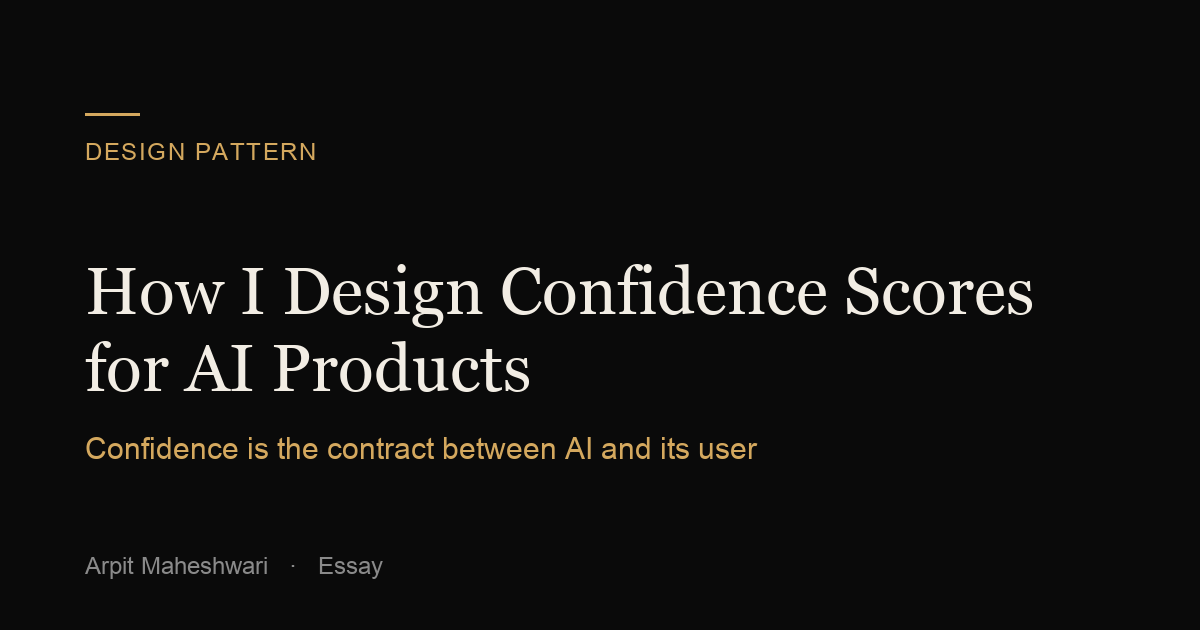
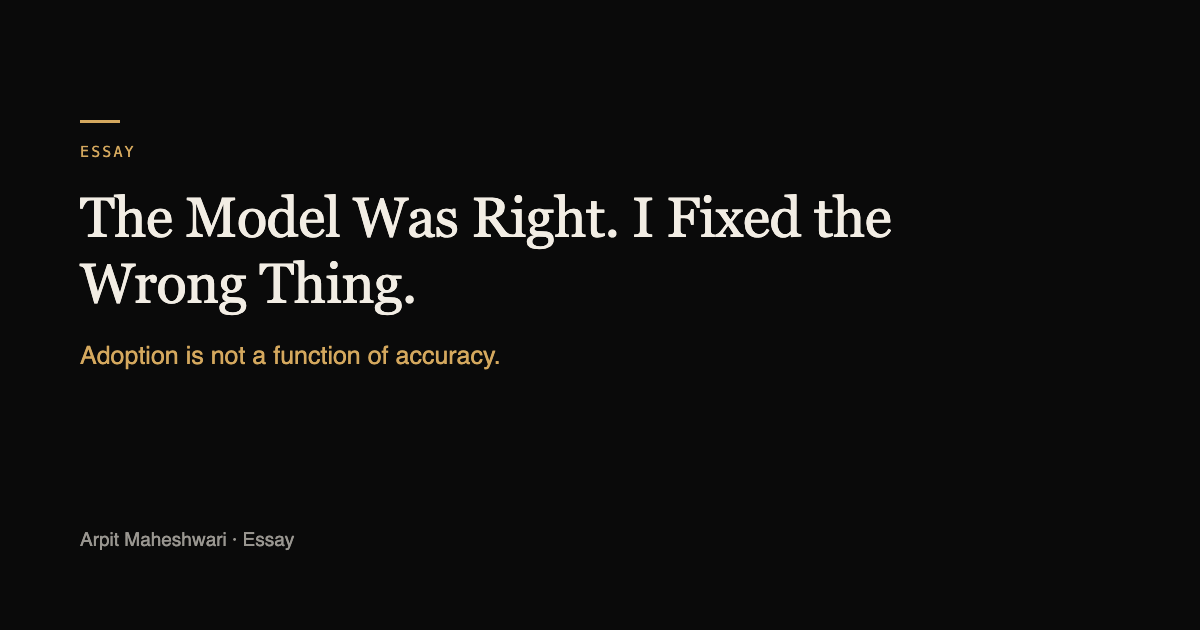
[canon] the AdTech confidence-score claim, out of a fourth surface — and a gate that can see prose
The 2026-08-05 correction (no confidence scores at this client, ever) was applied to
the cases and documents, then to patterns/ on 2026-08-07 with the lesson written down:
"a canon correction must sweep patterns/ too, it is a third surface family". There was a
fourth. writing/ was never swept, and patterns/confidence-scores.html's own lead was
missed by the sweep that fixed its footer.

Live on the domain until today:
  * writing/confidence-scoring.html narrated the client's story as a confidence-score
    story end to end — "below a certain confidence we stopped showing a number at all" —
    with every figure in it (10,000 campaigns, 60% more profitable, 47%, 42%, 85%)
    unattested in canon. Rewritten to the attested story: the model was right and
    ignored, two weeks lost to the wrong suspect, a ranked list of billboards became a
    full campaign plan with KPIs attached and one-click argue-back, overrides logged and
    fed to the next week. Numbers now only 2 wks -> 3 hrs, GBP 69,000 media-value uplift,
    <5% -> 100% of UK bookings (public record). Retitled "The Model Was Right. I Fixed
    the Wrong Thing."
  * writing/index.html labelled that essay "Confidence Scores · AdTech".
  * patterns/confidence-scores.html opened on "traders at the UK's largest out-of-home
    advertiser ... 87% is not an instruction" and listed the AdTech case as where the
    pattern was seen in production. Lead regrounded in FinTech, where scores are
[…]

diff --git a/writing/confidence-scoring.html b/writing/confidence-scoring.html
@@ -3,10 +3,10 @@
 <head>
   <meta charset="UTF-8">
   <meta name="viewport" content="width=device-width, initial-scale=1.0">
-  <title>Confidence Score Patterns — Arpit Maheshwari</title>
-  <meta name="description" content="Why confidence is the contract between AI and its user. How to design confidence scoring that survives expert skepticism.">
-  <meta property="og:title" content="How I Design Confidence Scores for AI Products">
-  <meta property="og:description" content="The bottleneck in AI adoption isn't the model—it's user confidence. How to design confidence scores that make non-technical users trust algorithmic recommendations.">
+  <title>The Model Was Right. I Fixed the Wrong Thing. — Arpit Maheshwari</title>
+  <meta name="description" content="A recommendation engine beat the traders it was built for and went unused. The two weeks I lost to the wrong suspect, and the handover change that moved adoption.">
+  <meta property="og:title" content="The Model Was Right. I Fixed the Wrong Thing.">
+  <meta property="og:description" content="Adoption is not a function of accuracy">
   <meta property="og:url" content="https://arpitmaheshwari.com/writing/confidence-scoring.html">
   <meta property="og:type" content="article">
   <meta property="article:published_time" content="2026-05-09">
@@ -23,15 +23,15 @@
   {
     "@context": "https://schema.org",
     "@type": "Article",
-    "headline": "How I Design Confidence Scores for AI Products",
-    "description": "The bottleneck in AI adoption isn't the model—it's user confidence.",
+    "headline": "The Model Was Right. I Fixed the Wrong Thing.",
+    "description": "Adoption is not a function of accuracy — it is whether a professional can put their name on the output.",
     "author": {
       "@type": "Person",
       "name": "Arpit Maheshwari",
       "url": "https://arpitmaheshwari.com"
     },
     "datePublished": "2026-05-09",
-    "dateModified": "2026-05-09"
+    "dateModified": "2026-08-30"
   }
   </script>
 <meta property="og:image" content="https://arpitmaheshwari.com/assets/og-images/confidence-scoring-og.png">
@@ -53,37 +53,41 @@
 
 <div class="page-head">
   <div class="xi-writing-confidence-scoring-005">
-    <h1 class="xi-writing-confidence-scoring-006">How I Design Confidence Scores for AI Products</h1>
-    <p class="xi-writing-confidence-scoring-007">Design Pattern · May 2026 · 8 min read</p>
-    <p class="hand hand-note" aria-hidden="true">the 2018 shrug that started all this</p>
+    <h1 class="xi-writing-confidence-scoring-006">The Model Was Right. I Fixed the Wrong Thing.</h1>
+    <p class="xi-writing-confidence-scoring-007">Essay · May 2026 · 8 min read</p>
+    <p class="hand hand-note" aria-hidden="true">the two weeks I&rsquo;d like back</p>
   </div>
 </div>
 
 <main id="main" class="section page-bg"><div class="xi-writing-confidence-scoring-005">
 
-  <p class="lead xi-writing-confidence-scoring-010">In 2018 I watched a media buyer look at a recommendation that was, statistically, better than her own judgment — and override it anyway. That half-second of doubt is the whole problem. It’s also the only thing I was hired to design.</p>
+  <p class="lead xi-writing-confidence-scoring-010">In 2019 a recommendation engine I was working on beat the traders it was built for — visibly, on their own numbers. Adoption sat near zero. I spent the next two weeks making it smarter. That was the mistake.</p>
 
-  <h2 class="section-title xi-writing-confidence-scoring-011">The number that said nothing</h2>
-  <p class="u-body xi-writing-confidence-scoring-012">The platform had built a recommendation engine, and on paper it was very good: across more than 10,000 campaigns it was running 60% more profitable than buyer intuition. The buyers rejected it 47% of the time anyway. I sat next to one of them for an afternoon to understand why. She wasn’t fighting the math. She’d glance at the recommendation, see a bare number next to a “buy” button, and quietly do what she’d already decided to do.</p>
-  <p class="u-body xi-writing-confidence-scoring-012">That afternoon reframed the whole brief for me. Media buyers are trained skeptics — they’ll take data over instinct, but only when they can see which way the data is pointing and why. A system that says “buy this” and offers nothing else isn’t a tool to them; it’s a threat to the judgment they’re paid for. So they reach for the thing that feels safer: their own call. The model wasn’t being out-argued. It was being ignored.</p>
-
-  <p class="u-body xi-writing-confidence-scoring-012">The fix everyone reached for first was a better number — recalibrate, add a decimal, make it look more authoritative. That’s the trap. The buyer didn’t distrust the score because it was imprecise. She distrusted it because it arrived as a verdict with no way in. What she needed wasn’t a more confident number; it was what I&rsquo;d come to think of as a <a class="link-gold" href="../resources/intelligent-systems-glossary.html#confidence-layer">confidence layer</a> — a number she could interrogate and then choose to act on. The moment I started treating the score as the start of a conversation instead of the end of one, rejection started to fall.</p>
+  <h2 class="section-title xi-writing-confidence-scoring-011">I got the diagnosis wrong first</h2>
+  <p class="u-body xi-writing-confidence-scoring-012">The client was the UK&rsquo;s largest out-of-home advertising company, and the engine did something the desk genuinely could not: it read demand, supply and price across the whole market and proposed where a campaign should run. It outperformed the traders&rsquo; own picks. They ignored it anyway.</p>
+  <p class="u-body xi-writing-confidence-scoring-012">My first instinct was the engineer&rsquo;s instinct, and it was wrong. If a correct thing is not being used, make it more correct. Two weeks went into sharpening a model that was already sharp. Nothing moved, because accuracy was never the problem. I keep that miss on the case page too, because it is the most useful part of the story: the wrong suspect is expensive, and it looks exactly like diligence while you are chasing it.</p>
+  <p class="u-body xi-writing-confidence-scoring-012">The traders were not being stubborn. They were being rational. A bare recommendation asks for faith, and traders deal in collateral &mdash; their name goes on the booking, and &ldquo;the system said so&rdquo; is not a defence you can carry into a client review. The model was not being out-argued. It was being ignored, which is a different failure and has a different fix.</p>
 
   <div class="xi-writing-confidence-scoring-014">
-    <p class="xi-writing-confidence-scoring-015"><strong>A confidence score is a contract.</strong> The model commits to a number. The user commits to acting on it. My job is to make both halves of that bargain visible — so the person can see what they’re agreeing to before they agree.</p>
+    <p class="xi-writing-confidence-scoring-015"><strong>The model did not need to be more right.</strong> It needed to hand over something a professional could put their name on.</p>
   </div>
 
   <h2 class="section-title xi-writing-confidence-scoring-011">What I actually changed</h2>
-  <p class="u-body xi-writing-confidence-scoring-012">The thing I’m proudest of on that project is the smallest: below a certain confidence, we stopped showing a number at all. A 42% score is worse than useless — it’s an invitation to freeze. Replacing it with a plain “not confident enough to recommend — flag for review” let the buyer move on instead of staring at a figure she’d never act on. We spent the rest of the engagement on the same instinct, again and again: don’t dress up uncertainty, name it, and always leave a door open for the expert to walk through and disagree.</p>
-  <p class="u-body xi-writing-confidence-scoring-012">That’s the counter-intuitive part. The honest interface — the one that admits where the model is shaky — earned more trust than the optimistic one ever did. An “85% confident!” banner buys you exactly one mistake before a skeptic writes the whole system off. A score that already told you where it might be wrong survives the day it actually is.</p>
+  <p class="u-body xi-writing-confidence-scoring-012">Nothing in the model. What changed was what it handed over.</p>
+  <p class="u-body xi-writing-confidence-scoring-012">The engine&rsquo;s raw output was a ranked list of billboards. A list is an instruction: take it or leave it, and there is no third move. So the screen stopped serving a list and started serving a full campaign plan &mdash; the sites, the channel split, the creative rotation, and the KPIs the plan was committing to, printed on the plan itself. Every component customisable in one click.</p>
+  <p class="u-body xi-writing-confidence-scoring-012">That last part is the whole thing. The trader could argue back &mdash; pull a cluster, shift budget between channels, reject a panel on pricing &mdash; and every one of those edits was logged and fed into the next week&rsquo;s recommendations. Disagreement stopped being friction and became fuel. A trader who overrode Friday&rsquo;s plan watched the following week&rsquo;s arrive already reflecting the override, which is a very different feeling from being audited by a machine. Overrides fell, not because anyone was told to stop overriding, but because there was less left to argue with.</p>
+
+  <h2 class="section-title xi-writing-confidence-scoring-011">What it bought, and where it stops</h2>
+  <p class="u-body xi-writing-confidence-scoring-012">Campaign planning went from two weeks to three hours. Against the traders&rsquo; own baselines the plans carried &pound;69,000 more media value per client on average. The platform went from under 5% of the client&rsquo;s UK bookings to all of them &mdash; that part is on the public record, not my claim.</p>
+  <p class="u-body xi-writing-confidence-scoring-012">The honest limit: argue-back only works when there is an accountable expert on the other side. Give the same interface to someone with no standing to disagree and you have built a slower list. And it cannot rescue a weak model &mdash; a plan built on bad reasoning is just a bad plan with more surface area to defend.</p>
 
   <h2 class="section-title xi-writing-confidence-scoring-011">What I believe now</h2>
-  <p class="u-body xi-writing-confidence-scoring-012">Confidence scoring isn’t a data-visualisation problem. It’s a trust problem wearing a number’s clothes. The model is rarely the bottleneck in adoption; the half-second of doubt in front of the screen is. Design for that half-second and the rest of the model’s value finally gets used. Ignore it, and you’ve built something statistically excellent that nobody bets on.</p>
+  <p class="u-body xi-writing-confidence-scoring-012">Adoption is not a function of accuracy. It is a function of whether a professional can put their name on the output. Most of the AI-adoption problems I have been handed since have arrived dressed as model problems and turned out to be handover problems &mdash; the system was right, and it gave the person nothing to hold. The fix is rarely inside the model. It is in what the model hands over, and whether the person can push back on it and be heard.</p>
 
   <div class="xi-writing-confidence-scoring-016">
     <div class="eyebrow xi-writing-confidence-scoring-017">The reference version</div>
-    <p class="u-ui xi-writing-confidence-scoring-018">Want the playbook, not the story? The five confidence-score patterns I lean on — with the trade-offs, the do’s and don’ts, and worked examples.</p>
-    <a class="xi-writing-confidence-scoring-019" href="../patterns/confidence-scores.html" data-cta="pattern-reference" data-location="essay-body">See the pattern reference: Confidence Score Patterns →</a>
+    <p class="u-ui xi-writing-confidence-scoring-018">Want the playbook, not the story? The human-in-the-loop patterns behind this &mdash; when to ask, when to act, and how to make an override earn its keep.</p>
+    <a class="xi-writing-confidence-scoring-019" href="../patterns/human-in-loop.html" data-cta="pattern-reference" data-location="essay-body">See the pattern reference: The Override Is Training Data &rarr;</a>
   </div>
 
   <div class="xi-writing-confidence-scoring-020">

diff --git a/patterns/confidence-scores.html b/patterns/confidence-scores.html
@@ -80,7 +80,7 @@
     </div>
     <p class="lbl-cap">AI Design · Trust Patterns · Last updated June 2026</p>
     <p class="lbl-cap xi-patterns-confidence-scores-008">Part of <a class="link-gold" href="./">A Field Guide to Trust</a> · updated June 2026</p>
-    <p class="lbl-cap">Seen in production: <a class="link-gold" href="../case-studies/adtech.html">the AdTech case&nbsp;&rarr;</a> &middot; <a class="link-gold" href="../case-studies/fintech.html">the FinTech case&nbsp;&rarr;</a></p>
+    <p class="lbl-cap">Seen in production: <a class="link-gold" href="../case-studies/fintech.html">the FinTech case&nbsp;&rarr;</a> &middot; <a class="link-gold" href="../case-studies/vc-diligence.html">the due-diligence case&nbsp;&rarr;</a></p>
     <p class="hand hand-note" aria-hidden="true">never ship the naked number</p>
   </div>
 </div>
@@ -88,7 +88,7 @@
 <main id="main" class="section page-bg"><div class="xi-patterns-confidence-scores-005">
 
   <section class="xi-patterns-confidence-scores-012">
-    <p class="lead xi-patterns-confidence-scores-013">I watched traders at the UK&rsquo;s largest out-of-home advertiser override a model that beat them on a public scoreboard, week after week. The number wasn&rsquo;t the problem &mdash; the number was excellent. The problem was that 87% is not an instruction. These five patterns are the ways I&rsquo;ve made a score resolve into something a professional will actually move on &mdash; each with the trade-off I paid to learn.</p>
+    <p class="lead xi-patterns-confidence-scores-013">I watched private-equity analysts meet a deal score they had no way to interrogate &mdash; and quietly re-derive the whole thing by hand. The number wasn&rsquo;t the problem; the number was good. The problem was that 87% is not an instruction. These five patterns are the ways I&rsquo;ve made a score resolve into something a professional will actually move on &mdash; each with the trade-off I paid to learn.</p>
 
     <div class="thesis">
       <span class="t-l">The principle this page proves</span>
@@ -358,11 +358,6 @@
       <input class="t-sans-ui card-seg xi-patterns-confidence-scores-048" type="email" name="email" required placeholder="you@company.com" aria-label="Email address">
       <button class="lbl-eyebrow-500 btn-b xi-patterns-confidence-scores-049" type="submit" data-cta="newsletter" data-location="pattern-newsletter">Subscribe</button>
     </form>
-  </section>
-
-  <section class="xi-patterns-confidence-scores-050">
-    <div class="eyebrow xi-patterns-confidence-scores-022">Companion essay</div>
-    <a href="../writing/confidence-scoring.html" class="card-title xi-patterns-confidence-scores-051">How I Design Confidence Scores for AI Products →</a>
   </section>
 
   <section class="measure-t">

diff --git a/writing/index.html b/writing/index.html
@@ -55,9 +55,9 @@
   <div class="xi-writing-011">
 
     <a class="card-p32 xi-writing-012 hv-writing-1" href="./confidence-scoring.html" data-cta="essay" data-location="writing-list">
-      <div class="eyebrow xi-writing-013">Confidence Scores · AdTech</div>
-      <h2 class="card-title xi-writing-013">How I Design Confidence Scores for AI Products</h2>
-      <p class="t-sans-ui-muted xi-writing-014">A recommendation engine that beat human buyers — and got overruled half the time anyway. What I learned about the half-second where a person decides whether to trust a number.</p>
+      <div class="eyebrow xi-writing-013">Adoption · AdTech</div>
+      <h2 class="card-title xi-writing-013">The Model Was Right. I Fixed the Wrong Thing.</h2>
+      <p class="t-sans-ui-muted xi-writing-014">A recommendation engine that beat the traders it was built for — and sat unused. Two weeks lost to the wrong suspect, and the handover change that moved adoption without touching the model.</p>
       <div class="lbl-cap-plain">Essay · 8 min read →</div>
     </a>
 

diff --git a/patterns/calibration-track-record.html b/patterns/calibration-track-record.html
@@ -72,7 +72,7 @@
     </div>
     <p class="lbl-cap">AI Design · Earned trust · Last updated June 2026</p>
     <p class="lbl-cap xi-patterns-calibration-track-record-008">Part of <a class="link-gold" href="./">A Field Guide to Trust</a> · updated June 2026</p>
-    <p class="lbl-cap">Seen in production: <a class="link-gold" href="../case-studies/adtech.html">the AdTech case&nbsp;&rarr;</a> &middot; <a class="link-gold" href="../case-studies/fintech.html">the FinTech case&nbsp;&rarr;</a></p>
+    <p class="lbl-cap">Seen in production: <a class="link-gold" href="../case-studies/fintech.html">the FinTech case&nbsp;&rarr;</a> &middot; <a class="link-gold" href="../case-studies/vc-diligence.html">the due-diligence case&nbsp;&rarr;</a></p>
     <p class="hand hand-note" aria-hidden="true">confidence with a memory</p>
   </div>
 </div>

diff --git a/writing/human-in-loop.html b/writing/human-in-loop.html
@@ -89,7 +89,7 @@
     <div class="xi-writing-human-in-loop-022">
       <a class="xi-writing-human-in-loop-023 hv-writing-human-in-loop-1" href="./confidence-scoring.html" data-cta="next-essay" data-location="essay-footer">
         <div class="eyebrow xi-writing-human-in-loop-024">Next essay</div>
-        <div class="card-title">Confidence Scoring</div>
+        <div class="card-title">The Model Was Right</div>
       </a>
       <a class="xi-writing-human-in-loop-023 hv-writing-human-in-loop-1" href="./index.html" data-cta="back-to-writing" data-location="essay-footer">
         <div class="eyebrow xi-writing-human-in-loop-024">All essays</div>

diff --git a/tools/canon-lint.py b/tools/canon-lint.py
@@ -27,6 +27,7 @@ USAGE
 EXIT
     0 = calibrated and clean · 1 = violation, or calibration failed to go red
 """
+import html as html_mod
 import argparse, os, re, sys, tempfile
 
 # --------------------------------------------------------------------- rules
@@ -115,6 +116,28 @@ BANNED = [
 # rule case-insensitively, so `\b550K\+` matched the perfectly correct "550k+" and produced 11 false
 # positives. A rule about letter case cannot be checked case-insensitively.
 CASE_SENSITIVE = {r"\b550K\+"}
+
+# PROXIMITY rules run on the whole file's VISIBLE TEXT (tags stripped), in both directions,
+# with a character window. Everything above is matched per LINE against raw markup, which is why
+# the 2026-08-05 AdTech correction leaked for 25 days: the markup-shaped rule above was written
+# around the four pattern pages that had already been found ("Programmatic Advertising
+# Platform</a>:</strong>…"), so it could only ever re-find those. It was blind to
+#   * the same claim told in PROSE (writing/confidence-scoring.html narrated the client's story
+#     as a confidence-score story across several paragraphs — different lines, so no line-level
+#     rule could see it), and
+#   * patterns/confidence-scores.html's own lead, which put "the UK's largest out-of-home
+#     advertiser" and "87% is not an instruction" in one breath.
+# Both were live on 2026-08-30. A rule shaped like the instances you already found is not a gate.
+PROXIMITY = [
+    (r"Talon|out-of-home|OOH|media buyer|billboard|campaign plan",
+     r"confidence (?:score|scoring|layer)s?|naked \d{1,3}\s?%|act,\s*review,?\s*or\s*ignore",
+     400,
+     'a confidence score or the A/R/I verbs attached to the AdTech client - canon: the '
+     'recommendations were full campaign plans with KPIs, NO confidence scores ever, and A/R/I '
+     'was a synthesis across products, never born there. Generic score talk is fine; score talk '
+     'NEXT TO this client is not',
+     "AdTech correction 2026-08-05"),
+]
 
 # (pattern, why, ref, severity). "warn" never fails the build.
 MALFORMED = [
@@ -283,6 +306,20 @@ def scan(root, extra=None):
                     else:
                         errors.append(hit)
 
+        visible = re.sub(r"(?is)<(script|style|svg)\b[^>]*>.*?</\1>", " ", decommented)
+        visible = re.sub(r"(?s)<[^>]+>", " ", visible)
+        visible = re.sub(r"\s+", " ", html_mod.unescape(visible))
+        for left, right, window, why, ref in PROXIMITY:
+            for pat in (rf"(?is)\b(?:{left})\b.{{0,{window}}}?(?:{right})",
+                        rf"(?is)(?:{right}).{{0,{window}}}?\b(?:{left})\b"):
+                for m in re.finditer(pat, visible):
+                    hit = (rel, 0, m.group(0).strip()[:110], why, ref)
+                    if allowlisted:
+                        allowed.append(hit)
+                    else:
+                        (warnings if soft else errors).append(hit)
+                    break   # one report per file per direction is enough to act on
+
         for left, right, why, ref in PAIRED:
             if re.search(left, text) and not re.search(right, text):
                 hit = (rel, 0, f"missing companion for /{left}/", why, ref)
@@ -300,6 +337,11 @@ def scan(root, extra=None):
 CANARIES = [
     ("__canon_canary_a.html", "<p>Fifteen years… the trust layer between people and AI.</p>"),
     ("__canon_canary_b.html", "<p>15 years shipping, and a $120M ARR platform.</p>"),
+    # The 2026-08-30 leak: the client's story told in prose, as a confidence-score story,
+    # across two paragraphs. Any line-level rule passes this file.
+    ("__canon_canary_c.html",
+     "<p>I sat with a media buyer at the UK's largest out-of-home advertiser.</p>"
+     "<p>She glanced at the confidence score and overrode it anyway.</p>"),
 ]
 
 # Precision canary — MUST produce ZERO hits. This is the second calibration axis, added after three

diff --git a/tools/generate-og-cards.py b/tools/generate-og-cards.py
@@ -47,6 +47,13 @@ CHROME = os.environ.get("CHROME") or find_chrome()
 # comment above each block — CANONICAL-FACTS.md 2026-08-10 has the full audit.
 
 REG = [
+    # --- essays. The four essay cards were hand-made and outside this generator until
+    #     2026-08-30, when the confidence-scoring essay was rewritten to the attested AdTech
+    #     story and its card still carried the retired "How I Design Confidence Scores"
+    #     headline. A card outside REG does not change when its page does. The other three
+    #     essay cards (explainability, failure-states, human-in-loop) are still unmanaged.
+    ("confidence-scoring-og.png", "ESSAY", "The Model Was Right. I Fixed the Wrong Thing.",
+     "Adoption is not a function of accuracy.", "Arpit Maheshwari \u00b7 Essay"),
     # --- /fit/ (added 2026-08-17 with the page; a page shipped without a card falls back to
     #     a personal photo as its share image, which is the defect this generator was built for)
     ("fit-og.png", "FIT CHECK", "Paste the role. It answers with evidence, or says it can\u2019t.",
